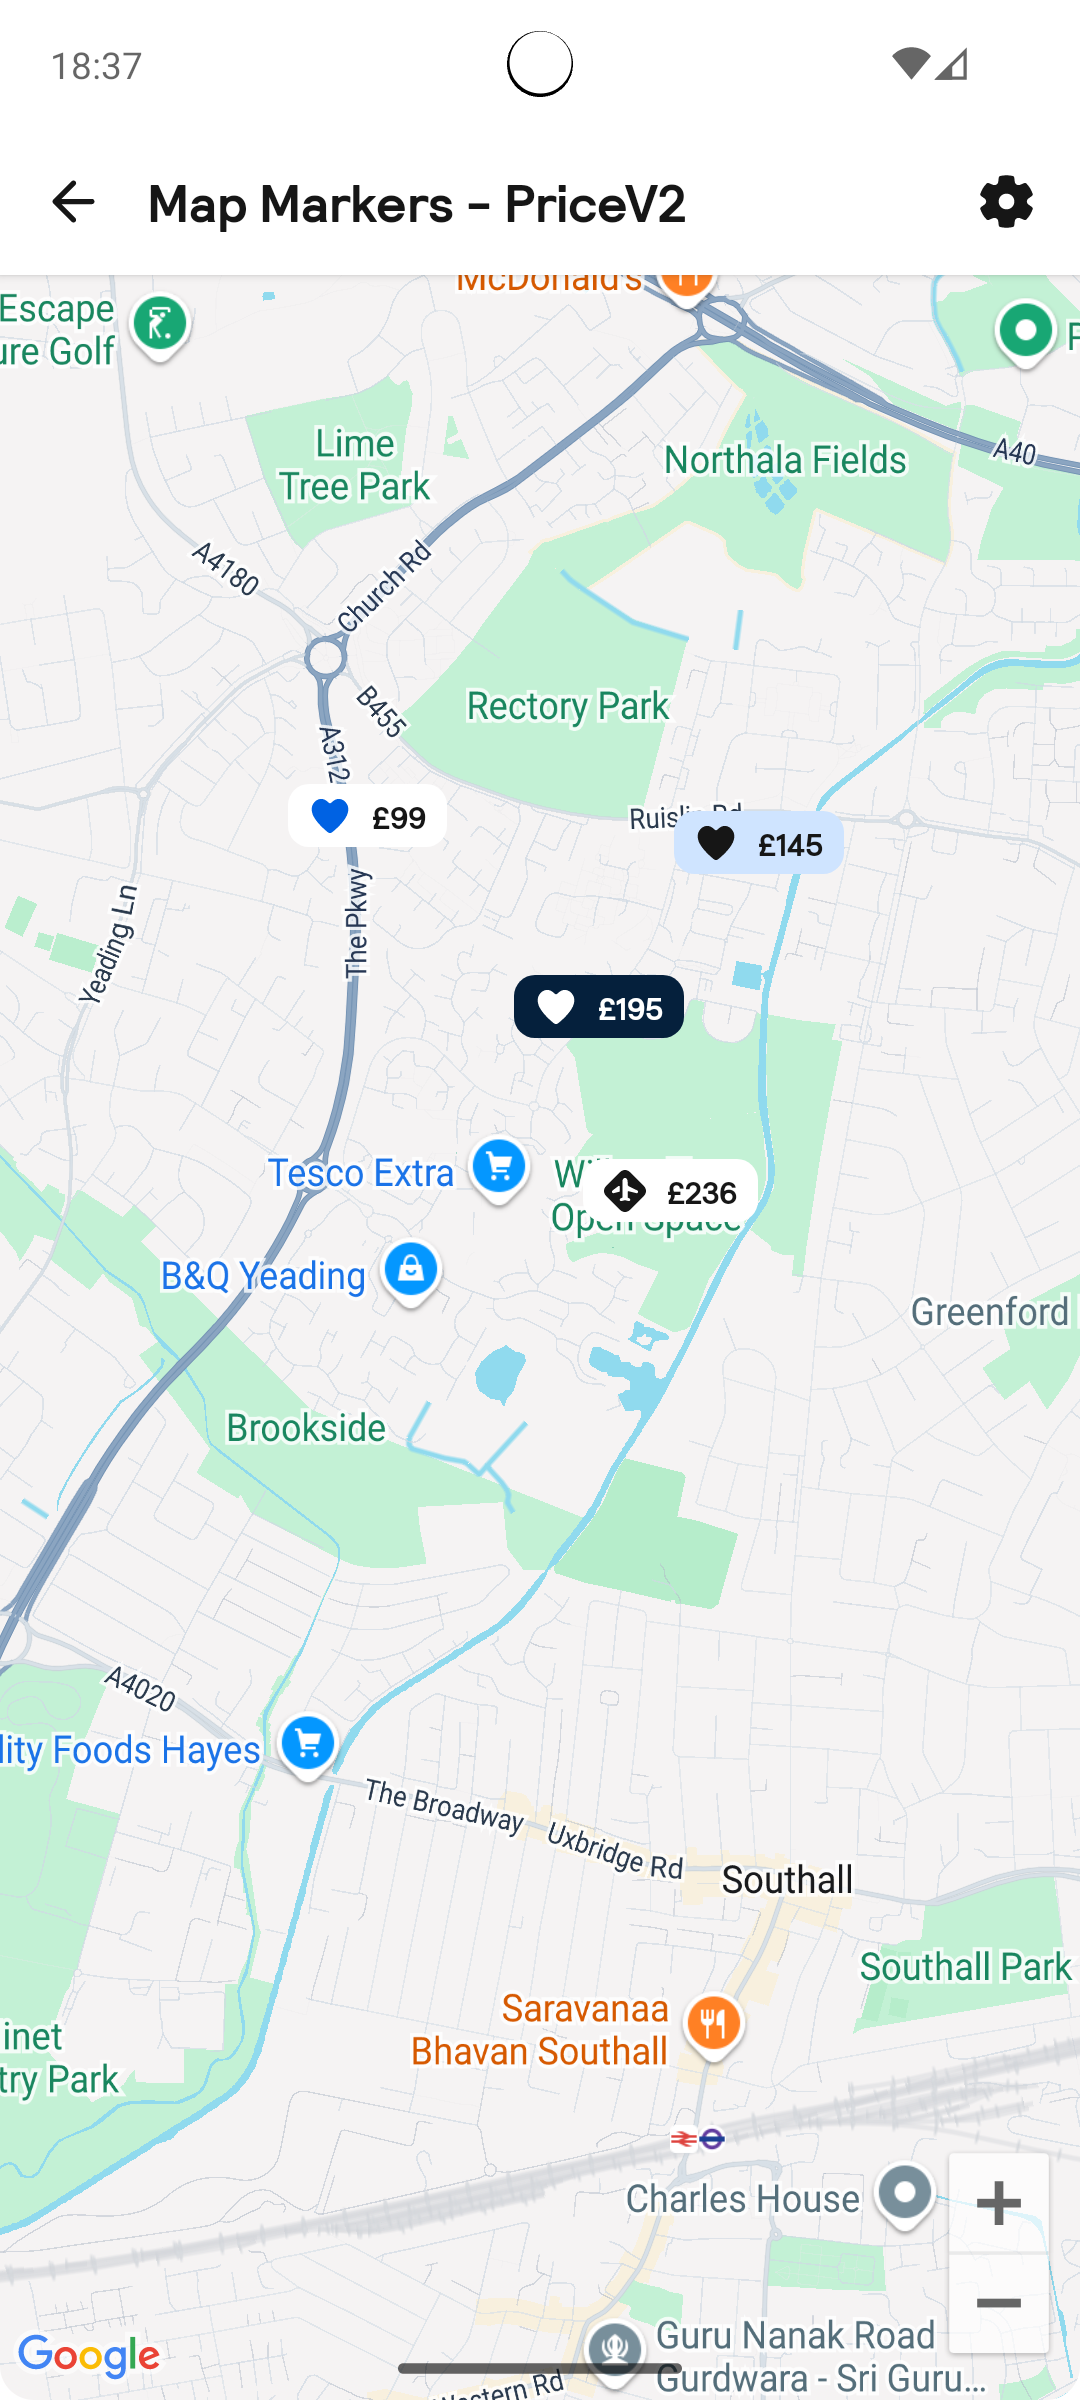
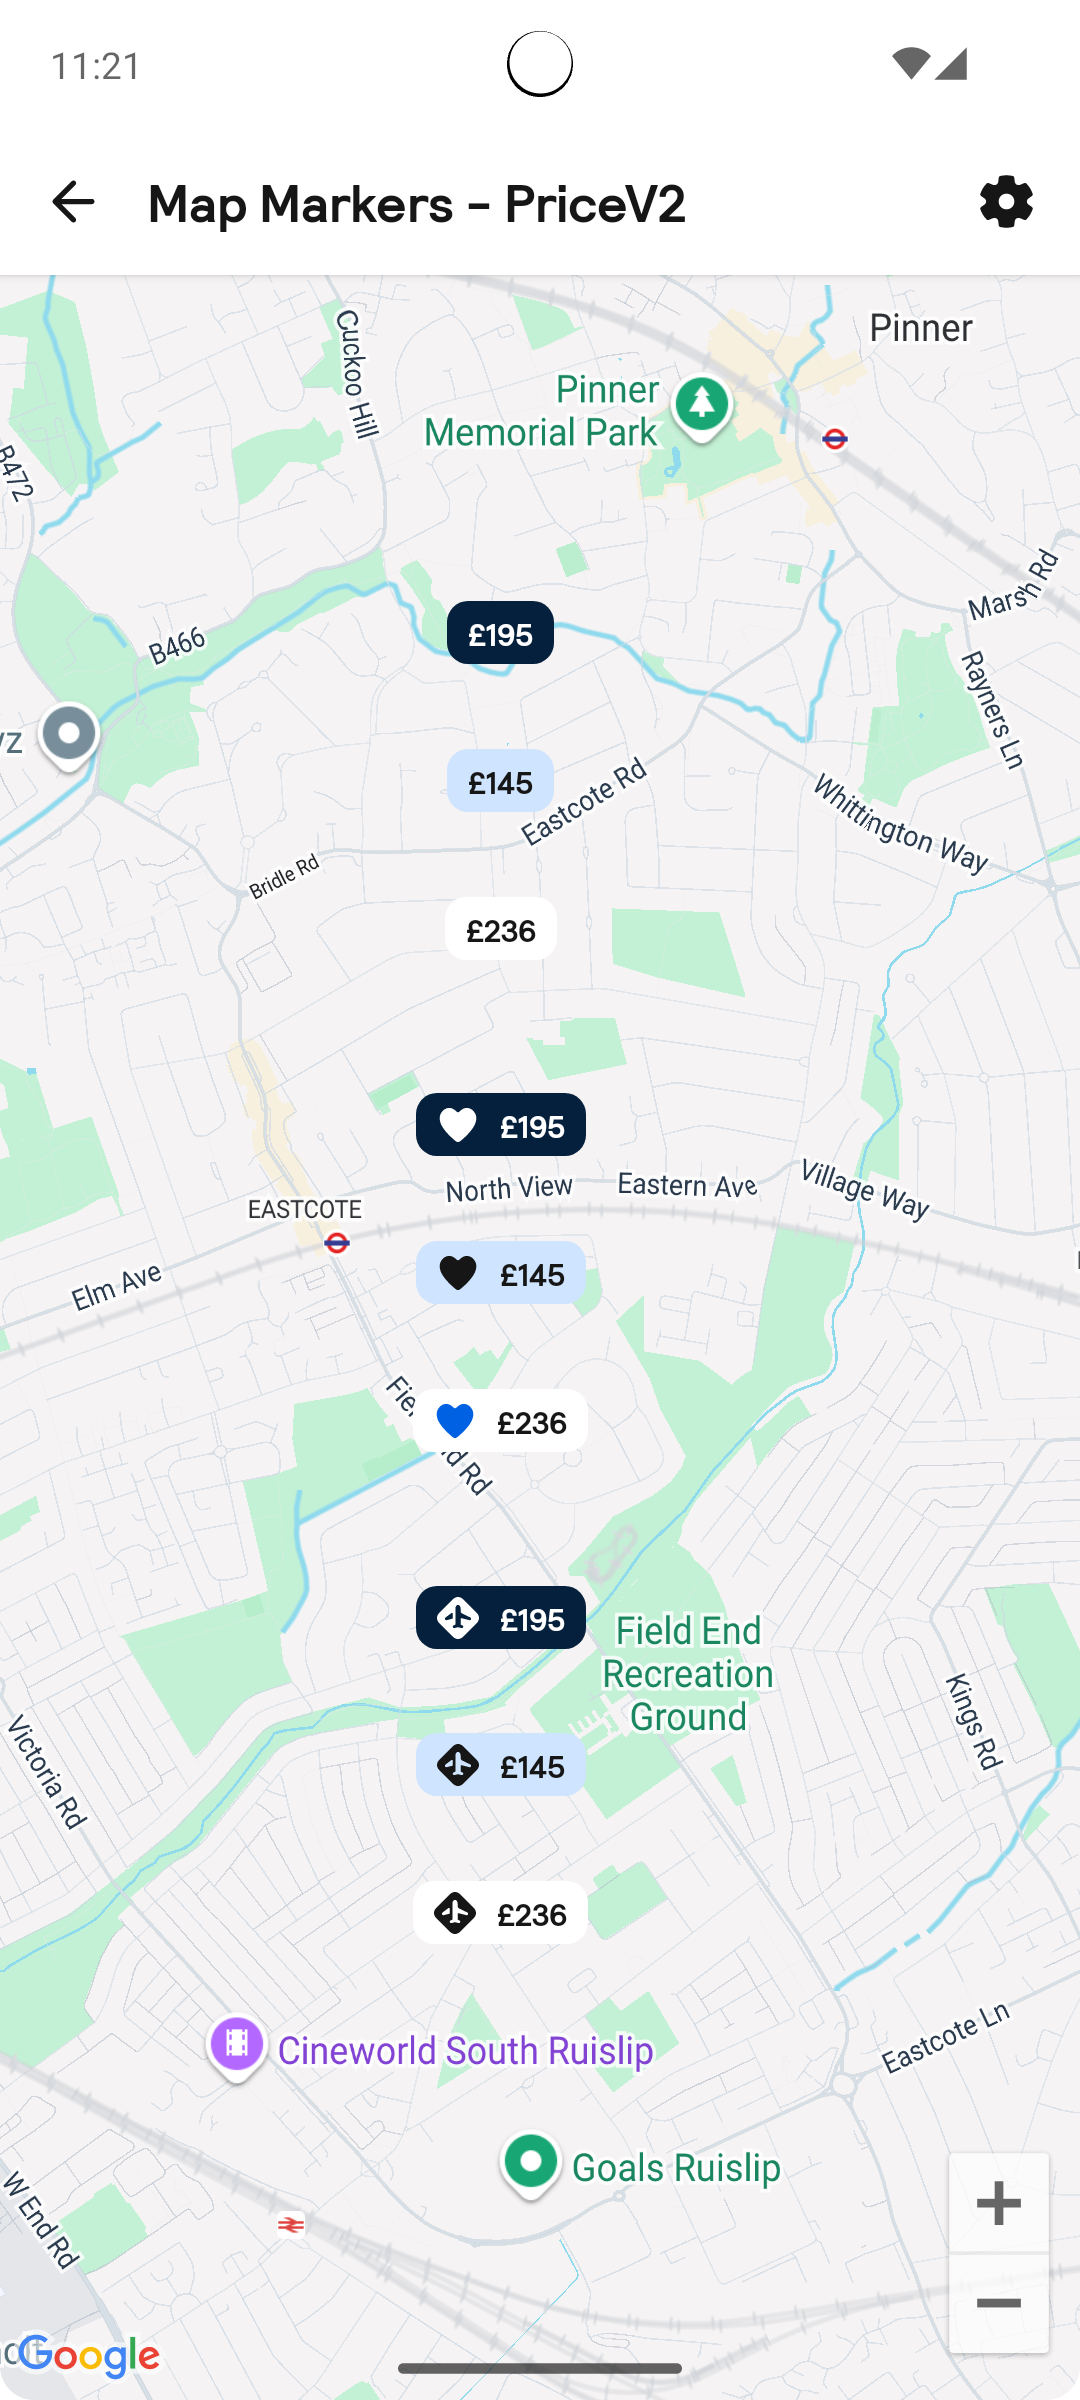
PAN-4307: Update demo and samples for price marker.

diff --git a/app/src/main/java/net/skyscanner/backpack/demo/compose/MapStory.kt b/app/src/main/java/net/skyscanner/backpack/demo/compose/MapStory.kt
@@ -99,11 +99,25 @@ fun PriceMapMarkerV2Story(modifier: Modifier = Modifier) {
         else -> BpkPriceMarkerV2Status.Unselected
     }
 
+    val markerPositions = listOf(
+        // No icons
+        LatLng(51.588308, -0.391776),
+        LatLng(51.585308, -0.391776),
+        LatLng(51.582308, -0.391776),
+        // Heart icons
+        LatLng(51.578308, -0.391776),
+        LatLng(51.575308, -0.391776),
+        LatLng(51.572308, -0.391776),
+        // Other icons
+        LatLng(51.568308, -0.391776),
+        LatLng(51.565308, -0.391776),
+        LatLng(51.562308, -0.391776),
+    )
+
     val markerIcons = listOf(
-        BpkIcon.Heart,
+        null,
         BpkIcon.Heart,
         BpkIcon.Airports,
-        BpkIcon.Heart,
     )
 
     GoogleMap(
@@ -111,13 +125,13 @@ fun PriceMapMarkerV2Story(modifier: Modifier = Modifier) {
         cameraPositionState = rememberCameraPositionState { MapPosition },
         mapColorScheme = ComposeMapColorScheme.FOLLOW_SYSTEM,
     ) {
-        MarkerPositions.forEachIndexed { index, latLng ->
+        markerPositions.forEachIndexed { index, latLng ->
             BpkPriceMapMarkerV2(
-                title = stringArrayResource(R.array.map_marker_prices)[index],
-                status = markerStatus(index),
+                title = stringArrayResource(R.array.map_marker_prices)[index % 3],
+                status = markerStatus(index % 3),
                 state = rememberMarkerState(position = latLng),
                 onClick = { previousSelectedMarker = focusedMarker; focusedMarker = index; false },
-                prefixIcon = markerIcons[index],
+                prefixIcon = markerIcons[index / 3],
             )
         }
     }

diff --git a/docs/compose/Maps/README.md b/docs/compose/Maps/README.md
@@ -72,6 +72,18 @@ import net.skyscanner.backpack.compose.map.BpkPriceMarkerV2Status
 
 BpkPriceMapMarkerV2(
     title = "£198",
+    status = BpkPriceMarkerV2Status.Selected
+)
+```
+
+Example of an price marker v2 with prefix icon:
+
+```Kotlin
+import net.skyscanner.backpack.compose.map.BpkPriceMapMarkerV2
+import net.skyscanner.backpack.compose.map.BpkPriceMarkerV2Status
+
+BpkPriceMapMarkerV2(
+    title = "£198",
     status = BpkPriceMarkerV2Status.Selected,
     prefixIcon = BpkIcon.Heart,
 )
